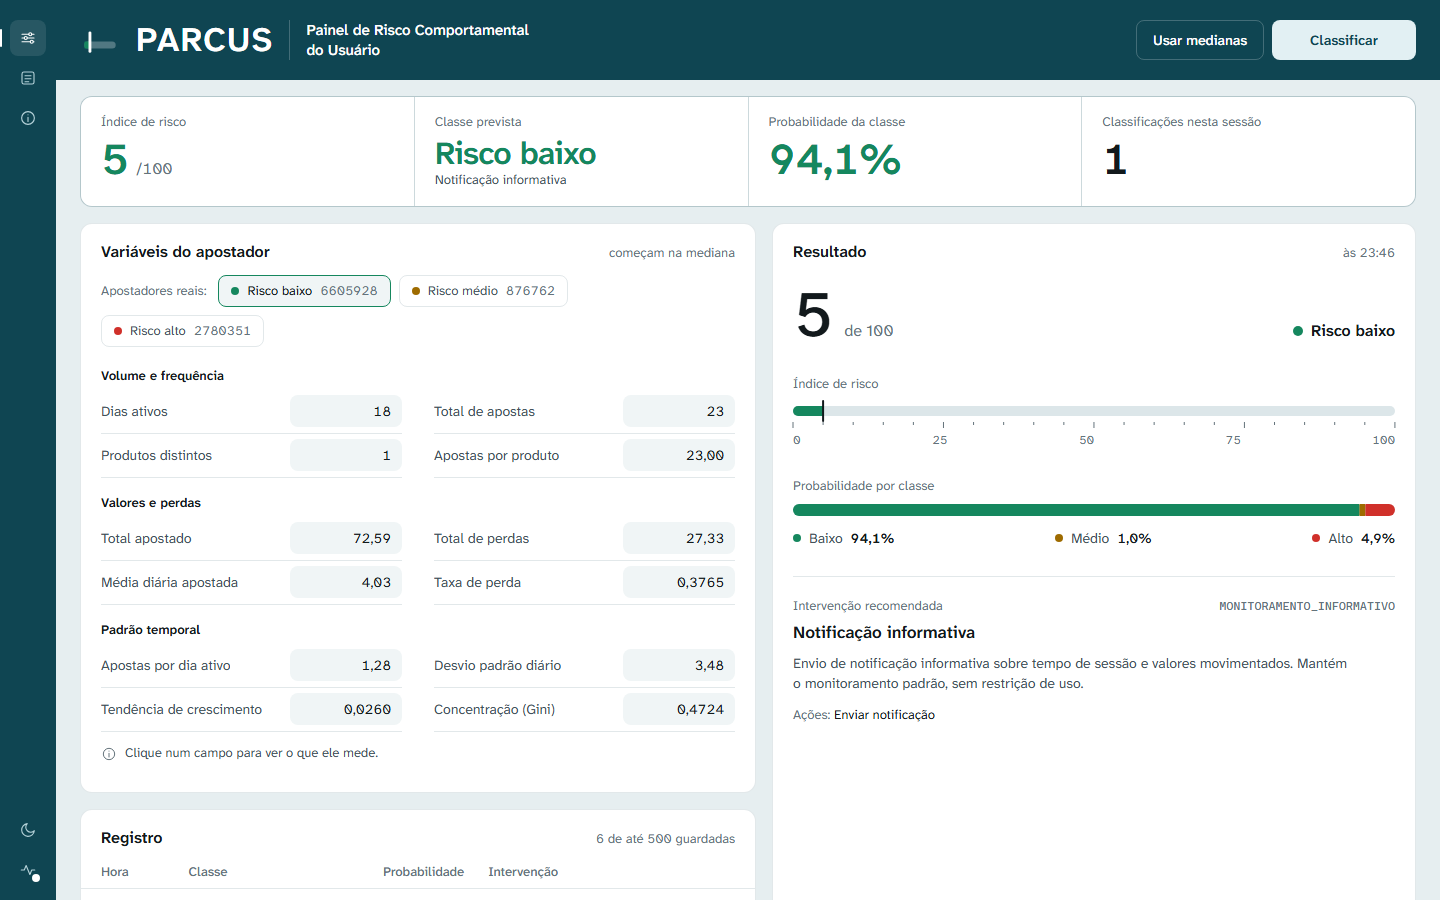
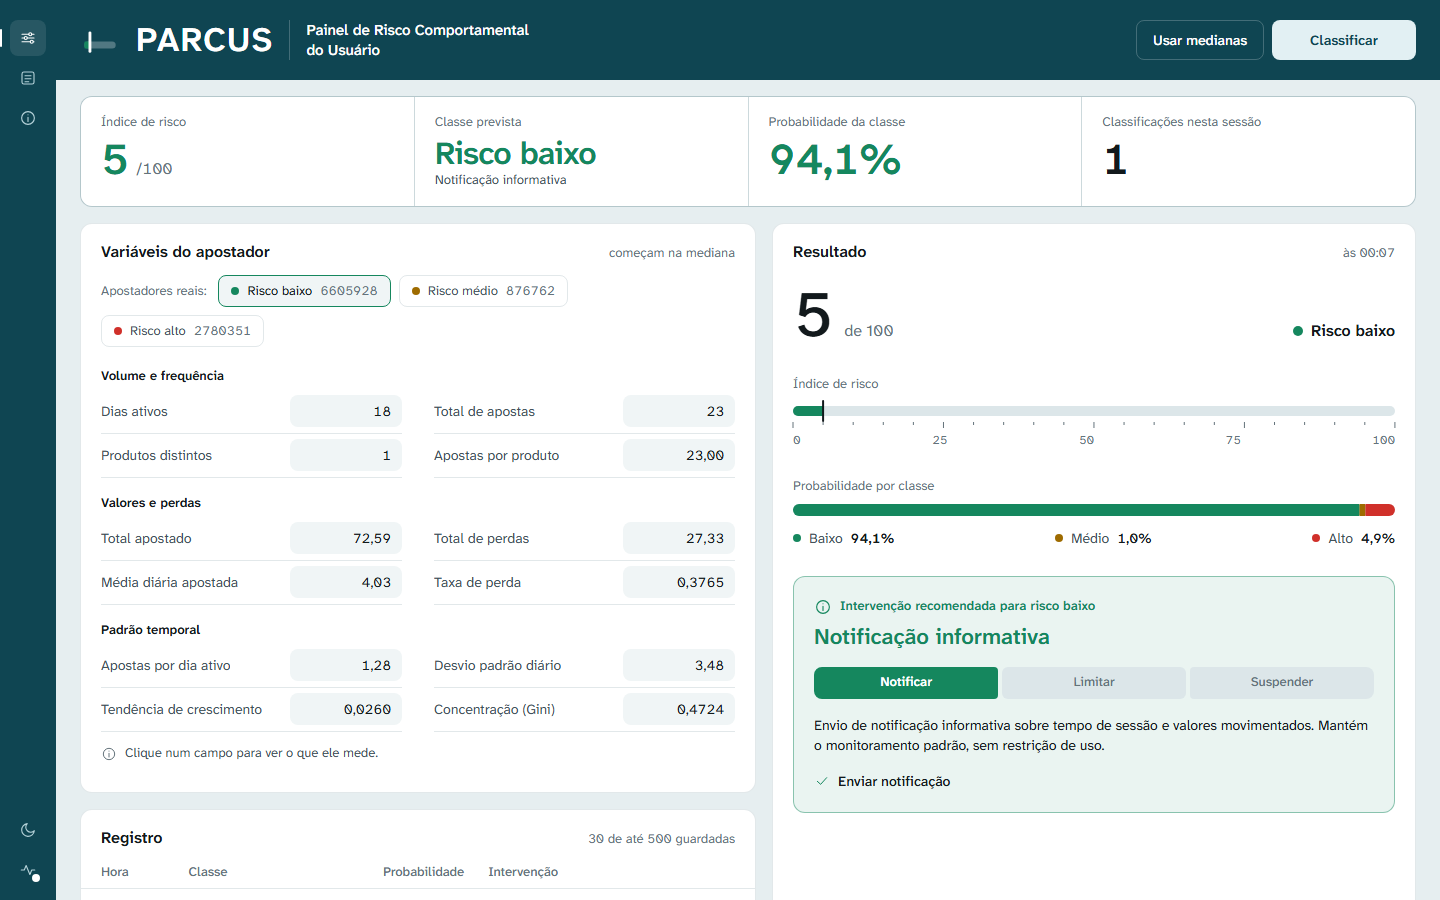
Destaca a intervenção no PARCUS pela gravidade do risco
Quadro na cor do nivel, escalada notificar/limitar/suspender com a etapa
atual em destaque, acoes em lista e avisos de consistencia em caixa propria.
O codigo da intervencao sai da tela e fica so no title do titulo. README e
prints atualizados.

Changed region(s): [[0.5312, 0.6533, 0.9688, 0.8711], [0.8438, 0.6533, 0.9688, 0.6844]]

diff --git a/static/index.html b/static/index.html
@@ -210,14 +210,27 @@ legend { padding: 16px 0 4px; font-size: 13px; font-weight: 600; color: var(--te
 .legenda .ponto { width: 8px; height: 8px; }
 .legenda b { font-weight: 500; color: var(--texto); font-variant-numeric: tabular-nums; }
 .legenda .lider b { font-weight: 600; }
-.intervencao { border-top: 1px solid var(--borda); padding-top: 20px; }
-.intervencao-topo { display: flex; justify-content: space-between; align-items: baseline; gap: 12px; }
-.intervencao-codigo { font-size: 12px; color: var(--texto-3); font-family: var(--mono); }
-.intervencao h3 { margin: 4px 0 0; font-size: 17px; font-weight: 600; }
-.intervencao p { margin: 8px 0 0; max-width: 62ch; color: var(--texto-2); }
-.intervencao-acoes { margin-top: 12px; font-size: 13px; color: var(--texto-3); }
-.intervencao-acoes span { color: var(--texto); }
-.avisos { margin-top: 20px; display: flex; flex-direction: column; gap: 8px; font-size: 13px; color: var(--texto-2); }
+/* intervencao: painel tingido na cor do nivel, com a etapa da escalada em
+   destaque, para o operador ver a gravidade sem ler o texto */
+.intervencao { padding: 20px; border-radius: 12px; border: 1px solid color-mix(in srgb, var(--nivel) 45%, transparent); background: color-mix(in srgb, var(--nivel) 9%, var(--superficie)); }
+.intervencao-topo { display: flex; justify-content: space-between; align-items: center; gap: 12px; }
+.intervencao-rotulo { display: inline-flex; align-items: center; gap: 8px; font-size: 13px; font-weight: 600; color: var(--nivel); }
+.intervencao-rotulo svg { width: 18px; height: 18px; flex: none; }
+.intervencao h3 { margin: 8px 0 0; font-size: 22px; font-weight: 600; line-height: 1.2; color: var(--nivel); }
+.escalada { display: grid; grid-template-columns: repeat(3, minmax(0, 1fr)); gap: 4px; margin-top: 16px; }
+.escalada span { height: 32px; display: grid; place-items: center; border-radius: 6px; font-size: 13px; font-weight: 500; color: var(--texto-3); background: var(--trilha); white-space: nowrap; overflow: hidden; text-overflow: ellipsis; padding: 0 8px; }
+.escalada span:first-child { border-radius: 8px 4px 4px 8px; }
+.escalada span:last-child { border-radius: 4px 8px 8px 4px; }
+.escalada .feita { background: color-mix(in srgb, var(--nivel) 30%, var(--trilha)); color: var(--texto-2); }
+.escalada .atual { background: var(--nivel); color: #ffffff; font-weight: 600; }
+[data-theme="dark"] .escalada .atual { color: #14181d; }
+.intervencao p { margin: 16px 0 0; max-width: 62ch; color: var(--texto); }
+.intervencao-acoes { margin: 16px 0 0; padding: 0; list-style: none; display: flex; flex-direction: column; gap: 8px; font-size: 14px; font-weight: 500; }
+.intervencao-acoes li { display: flex; align-items: center; gap: 8px; }
+.intervencao-acoes svg { width: 16px; height: 16px; flex: none; color: var(--nivel); }
+/* avisos de consistencia das variaveis: caixa propria em ambar */
+.avisos { margin-top: 16px; padding: 16px 20px; border-radius: 12px; border: 1px solid color-mix(in srgb, var(--medio) 45%, transparent); background: color-mix(in srgb, var(--medio) 9%, var(--superficie)); display: flex; flex-direction: column; gap: 8px; font-size: 13px; color: var(--texto); }
+.avisos strong { display: flex; align-items: center; gap: 8px; font-size: 13px; font-weight: 600; color: var(--medio); }
 .avisos div { display: flex; gap: 8px; }
 .avisos svg { width: 16px; height: 16px; flex: none; margin-top: 2px; color: var(--medio); }
 .vazio { color: var(--texto-2); max-width: 40ch; margin: 0; }
@@ -465,6 +478,12 @@ const INTERVENCAO_TITULO = {
   LIMITE_TEMPORARIO: "Limite de depósito e pausas",
   SUSPENSAO_TEMPORARIA: "Suspensão e suporte",
 };
+// escalada proporcional ao risco: notificar, limitar, suspender
+const ESCALADA = [
+  { codigo: "MONITORAMENTO_INFORMATIVO", rotulo: "Notificar" },
+  { codigo: "LIMITE_TEMPORARIO", rotulo: "Limitar" },
+  { codigo: "SUSPENSAO_TEMPORARIA", rotulo: "Suspender" },
+];
 const ACAO_TIPO = {
   ENVIAR_NOTIFICACAO: "Enviar notificação",
   APLICAR_LIMITE_DEPOSITO: "Aplicar limite de depósito",
@@ -698,16 +717,31 @@ function mostrarResultado(dados) {
     `<div class="${i === lider ? "lider" : ""}"><span class="ponto" style="--nivel:${n.cor}" aria-hidden="true"></span>${n.curto} <b>${decimal(probs[i], 1)}%</b></div>`).join("");
 
   // intervencao e avisos
-  const acoes = dados.intervencao.acoes.map(a => ACAO_TIPO[a.tipo] ?? a.tipo).join(", ");
+  const ICONE_ALERTA = `<svg viewBox="0 0 24 24" fill="none" stroke="currentColor" stroke-width="1.5" stroke-linecap="round" stroke-linejoin="round" aria-hidden="true"><path d="M12 4 3 20h18z"/><path d="M12 10v4M12 17v.1"/></svg>`;
+  const ICONE_INFO = `<svg viewBox="0 0 24 24" fill="none" stroke="currentColor" stroke-width="1.5" stroke-linecap="round" aria-hidden="true"><circle cx="12" cy="12" r="8.5"/><path d="M12 11v5.5M12 7.6v.1"/></svg>`;
+  const ICONE_ACAO =`<svg viewBox="0 0 24 24" fill="none" stroke="currentColor" stroke-width="1.5" stroke-linecap="round" stroke-linejoin="round" aria-hidden="true"><path d="M5 12.5 10 17l9-10"/></svg>`;
+  // escalada das tres intervencoes; a etapa desta classificacao fica em destaque
+  const etapa = ESCALADA.findIndex(e => e.codigo === codigo);
+  const escalada = etapa < 0 ? "" : `
+      <div class="escalada" role="img" aria-label="Etapa ${etapa + 1} de 3 da escalada: ${ESCALADA[etapa].rotulo}">
+        ${ESCALADA.map((e, i) => `<span class="${i < etapa ? "feita" : i === etapa ? "atual" : ""}">${e.rotulo}</span>`).join("")}
+      </div>`;
+  const acoes = dados.intervencao.acoes.map(a =>
+    `<li title="${escapar(a.tipo)}">${ICONE_ACAO}${escapar(ACAO_TIPO[a.tipo] ?? a.tipo)}</li>`).join("");
   const avisos = dados.avisos?.length
-    ? `<div class="avisos entra">${dados.avisos.map(a => `<div><svg viewBox="0 0 24 24" fill="none" stroke="currentColor" stroke-width="1.5" stroke-linecap="round" aria-hidden="true"><path d="M12 4 3 20h18z"/><path d="M12 10v4M12 17v.1"/></svg>${escapar(traduzirAviso(a))}</div>`).join("")}</div>`
+    ? `<div class="avisos entra" role="note">
+         <strong>${ICONE_ALERTA}${dados.avisos.length === 1 ? "1 aviso de consistência" : `${dados.avisos.length} avisos de consistência`}</strong>
+         ${dados.avisos.map(a => `<div>${escapar(traduzirAviso(a))}</div>`).join("")}
+       </div>`
     : "";
   $("detalhe").innerHTML = `
-    <div class="intervencao entra">
-      <div class="intervencao-topo"><span class="rotulo" style="margin:0">Intervenção recomendada</span><span class="intervencao-codigo">${escapar(codigo)}</span></div>
-      <h3>${escapar(titulo)}</h3>
+    <div class="intervencao entra" style="--nivel:${nivel.cor}">
+      <div class="intervencao-topo">
+        <span class="intervencao-rotulo">${etapa === 0 ? ICONE_INFO : ICONE_ALERTA}Intervenção recomendada para ${nivel.nome.toLowerCase()}</span>
+      </div>
+      <h3 title="${escapar(codigo)}">${escapar(titulo)}</h3>${escalada}
       <p>${escapar(dados.intervencao.descricao)}</p>
-      <div class="intervencao-acoes">Ações: <span>${escapar(acoes)}</span></div>
+      <ul class="intervencao-acoes" aria-label="Ações">${acoes}</ul>
     </div>${avisos}`;
 
   // resumo

diff --git a/README.md b/README.md
@@ -53,7 +53,7 @@ Dois endereços ficam disponíveis:
 - `http://127.0.0.1:8000` — PARCUS, o painel de demonstração
 - `http://127.0.0.1:8000/docs` — documentação interativa da API
 
-O PARCUS reúne, na mesma página, o formulário com as doze variáveis, o resultado da classificação e o registro das últimas decisões. Três apostadores reais do dataset, um de cada classe de risco, preenchem os campos com um clique, e o botão Classificar envia os dados à API; os campos que mudam piscam de leve, e uma linha de ajuda no pé do formulário explica o campo em foco. No topo, quatro indicadores resumem a última classificação: índice de risco, classe prevista, probabilidade da classe e número de classificações na sessão, os três primeiros na cor do nível de risco. O resultado mostra o índice numa escala de 0 a 100, as três probabilidades numa barra única que soma 100% e a intervenção recomendada, com as ações em texto legível e o código da intervenção ao lado. A animação acompanha só o que muda: o índice conta do valor anterior até o novo junto com a escala, a barra de probabilidades se redistribui, a linha nova do registro entra com um realce, e a marca do cabeçalho — uma régua com marcador — desliza para a esquerda, o centro ou a direita na cor de risco baixo, médio ou alto. Quem desativa animações no sistema vê as mudanças sem movimento. Os números aparecem com vírgula decimal, e os campos aceitam vírgula ou ponto na digitação; o envio à API usa sempre ponto. Há tema claro, com moldura azul-petróleo, e tema escuro, com moldura grafite; o tema segue a preferência do sistema e pode ser alternado na barra lateral, cujos ícones também levam a cada seção da página. O texto usa a fonte Atkinson Hyperlegible Next, desenhada para leitura fácil.
+O PARCUS reúne, na mesma página, o formulário com as doze variáveis, o resultado da classificação e o registro das últimas decisões. Três apostadores reais do dataset, um de cada classe de risco, preenchem os campos com um clique, e o botão Classificar envia os dados à API; os campos que mudam piscam de leve, e uma linha de ajuda no pé do formulário explica o campo em foco. No topo, quatro indicadores resumem a última classificação: índice de risco, classe prevista, probabilidade da classe e número de classificações na sessão, os três primeiros na cor do nível de risco. O resultado mostra o índice numa escala de 0 a 100, as três probabilidades numa barra única que soma 100% e a intervenção recomendada num quadro na cor do nível, com a etapa da escalada (notificar, limitar ou suspender) em destaque e as ações em lista; os avisos de consistência das variáveis aparecem numa caixa à parte. A animação acompanha só o que muda: o índice conta do valor anterior até o novo junto com a escala, a barra de probabilidades se redistribui, a linha nova do registro entra com um realce, e a marca do cabeçalho — uma régua com marcador — desliza para a esquerda, o centro ou a direita na cor de risco baixo, médio ou alto. Quem desativa animações no sistema vê as mudanças sem movimento. Os números aparecem com vírgula decimal, e os campos aceitam vírgula ou ponto na digitação; o envio à API usa sempre ponto. Há tema claro, com moldura azul-petróleo, e tema escuro, com moldura grafite; o tema segue a preferência do sistema e pode ser alternado na barra lateral, cujos ícones também levam a cada seção da página. O texto usa a fonte Atkinson Hyperlegible Next, desenhada para leitura fácil.
 
 ---
 
